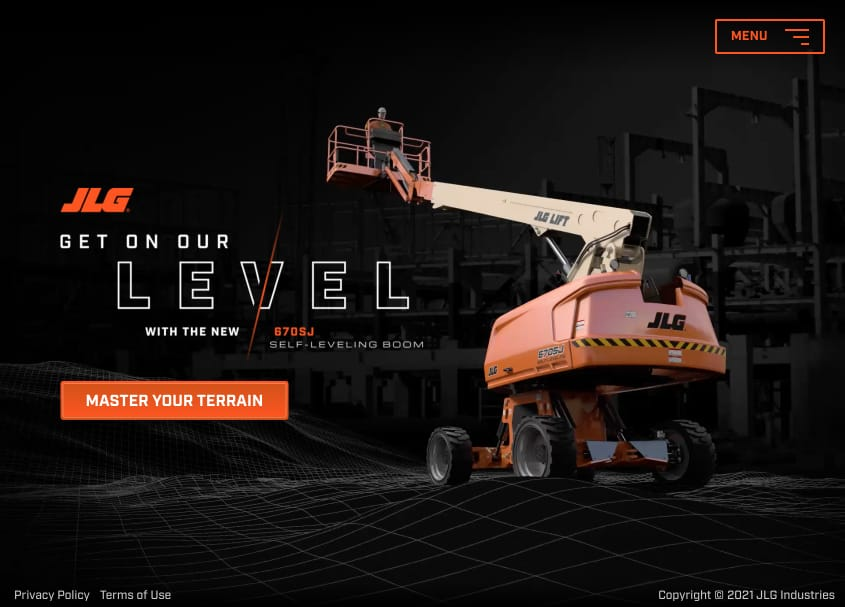
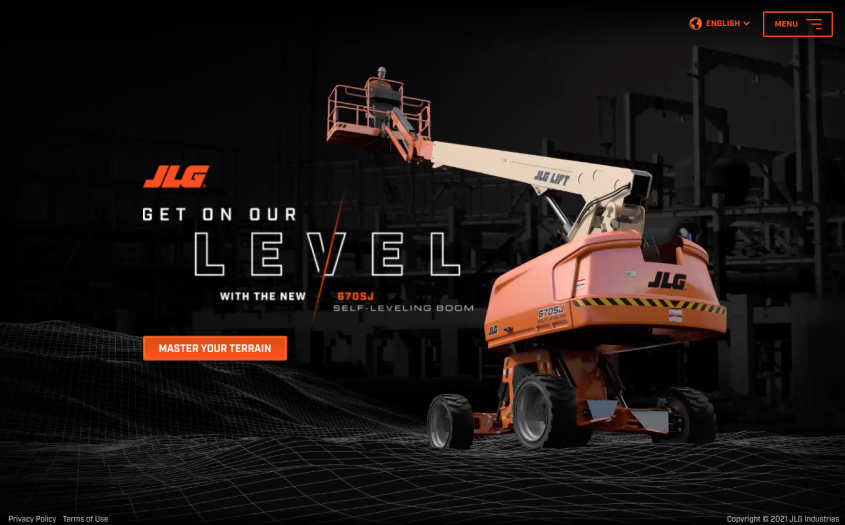
Content population.
Menu population.

Overall site is in a good spot.

diff --git a/components/Works.vue b/components/Works.vue
@@ -150,46 +150,12 @@ export default {
           }
         },
         {
-          id: 'nsf',
-          parity: null,
-          title: 'Nebraska State Fair',
-          task: 'Development',
-          description:
-            'Brief description of project amet nulla vel nunc placerat ultricies eget vel massa. Ut efficitur ex ut libero vestibulum porta. Vestibulum sed purus aliquet, consequat.',
-          illustration: NSFHero,
-          divider: NSFDivider,
-          screenshot: NSFScreenshot,
-          CTATertiary: {
-            component: CTATertiary,
-            link: {
-              text: 'Visit Site',
-              href: 'https://statefair.org',
-              target: '_blank'
-            }
-          },
-          CTASecondary: {
-            component: CTASecondary,
-            link: {
-              text: 'Project Details',
-              href: '/styleguide',
-              target: '_self'
-            }
-          },
-          footer: {
-            component: NSFFooter,
-            modifiers: {
-              triggerEl: '.work__segment--nsf .corn-footer',
-              revealOffset: '0.85'
-            }
-          }
-        },
-        {
           id: 'ezgo',
           parity: null,
           title: 'E-Z-GO',
           task: 'Development',
           description:
-            'Brief description of project amet nulla vel nunc placerat ultricies eget vel massa. Ut efficitur ex ut libero vestibulum porta. Vestibulum sed purus aliquet, consequat.',
+            'E-Z-GO is a leading global manufacturer of golf cars, utility vehicles and personal transportation vehicles. The website features segmented audience content and a vehicle building tool.',
           illustration: EZGOHero,
           divider: EZGODivider,
           screenshot: EZGOScreenshot,
@@ -223,7 +189,7 @@ export default {
           title: 'JLG Self-Leveling Boom',
           task: 'Development',
           description:
-            'Brief description of project amet nulla vel nunc placerat ultricies eget vel massa. Ut efficitur ex ut libero vestibulum porta. Vestibulum sed purus aliquet, consequat.',
+            'This site was created to promote the international launch of the new 670SJ Self-Leveling Boom from JLG. The website was built with nuxt.js and features translation.',
           illustration: SLBHero,
           divider: SLBDivider,
           screenshot: SLBScreenshot,
@@ -317,6 +283,11 @@ export default {
     &--slb {
       color: $color-white;
       background-color: $color-slb-grey;
+
+      &::before,
+      &:after {
+        background-color: $color-slb-orange;
+      }
     }
     &--even {
       &:after {

diff --git a/pages/selflevelingboom/index.vue b/pages/selflevelingboom/index.vue
@@ -14,7 +14,7 @@ export default {
         id: 'slb',
         title: 'JLG Self-Leveling Boom',
         description:
-          '<p>JLG is a global producer of aerial work platforms and telehandlers. The Self-Leveling Boom site was created to promote the new 670SJ Self-Leveling Boom. This project was a collaboration between myself and another developer. I handled setting up the Next.js framework, site structure, and the majority of the site\'s pages while the other developer focused on the <a href="https://www.selflevelingboom.com/masteryourterrain/" target="_blank" rel="nofollow">Master Your Terrain</a> component. After the initial site launched I started on a second phase of development to add Spanish and Portuguese translations.</p>',
+          "<p>JLG is a global producer of aerial work platforms and telehandlers. The Self-Leveling Boom site was created to promote the new 670SJ Self-Leveling Boom. This project was a collaboration between myself and another developer. I handled setting up the Next.js framework, site structure, and the majority of the site's pages while the other developer focused on the Master Your Terrain component. After the initial site launched I started on a second phase of development to add translations.</p>",
         roles: ['Developer'],
         tools: ['Next.js', 'React', 'next-translate'],
         checkmark: {
@@ -37,11 +37,11 @@ export default {
           {
             title: 'Translation',
             description:
-              "Translation support is currently being added to the site. For tooling I used the Next.js internationalized routing system to handle page URLs and detecting the user's preferred language. For translating the site's content I choose next-translate. Using those two tools I was able to produce a robust and flexible translation system.",
-            image: 'mc/mc-detail-two.jpg',
+              "Since the site is being promoted in the UK, North America and South America translation was needed. For tooling I used the Next.js internationalized routing system to handle page URLs and detecting the user's preferred language. For translating the site's content I used next-translate. Using those two tools I was able to produce a robust and flexible translation system.",
+            image: 'slb/slb-detail-two.jpeg',
             link: {
               text: 'View Site',
-              href: 'https://www.selflevelingboom.com/',
+              href: 'https://www.selflevelingboom.com/whereitallbegan/',
               target: '_blank'
             }
           }

diff --git a/components/navigation/Navigation.vue b/components/navigation/Navigation.vue
@@ -12,22 +12,37 @@
           <span class="links__headline">My Work</span>
           <ul>
             <li>
-              <a :tabindex="tabIndex" href="#" class="links__link">
+              <nuxt-link
+                to="/memorialcare"
+                :tabindex="tabIndex"
+                class="links__link"
+                @click.native="toggleNavigation"
+              >
                 <span class="links__text">MemorialCare</span>
                 <div class="links__link__underline"></div>
-              </a>
+              </nuxt-link>
             </li>
             <li>
-              <a :tabindex="tabIndex" href="#" class="links__link">
+              <nuxt-link
+                to="/ezgo"
+                :tabindex="tabIndex"
+                class="links__link"
+                @click.native="toggleNavigation"
+              >
                 <span class="links__text">E-Z-GO</span>
                 <div class="links__link__underline"></div>
-              </a>
+              </nuxt-link>
             </li>
             <li>
-              <a :tabindex="tabIndex" href="#" class="links__link">
+              <nuxt-link
+                to="/selflevelingboom"
+                :tabindex="tabIndex"
+                class="links__link"
+                @click.native="toggleNavigation"
+              >
                 <span class="links__text">JLG</span>
                 <div class="links__link__underline"></div>
-              </a>
+              </nuxt-link>
             </li>
           </ul>
         </li>
@@ -49,7 +64,12 @@
           </ul>
         </li> -->
       </ul>
-      <nuxt-link to="/" class="links__home" :tabindex="tabIndex">
+      <nuxt-link
+        to="/"
+        class="links__home"
+        :tabindex="tabIndex"
+        @click.native="toggleNavigation"
+      >
         <div class="links__circle"></div>
         <home />
       </nuxt-link>
@@ -72,6 +92,12 @@ export default {
   computed: {
     tabIndex() {
       return this.$store.state.menuOpen === true ? 0 : -1
+    }
+  },
+  methods: {
+    toggleNavigation() {
+      console.log('clicked')
+      this.$store.commit('toggleMenuOpen')
     }
   }
 }

diff --git a/pages/memorialcare/index.vue b/pages/memorialcare/index.vue
@@ -30,7 +30,7 @@ export default {
             image: 'mc/mc-detail-one.jpeg',
             link: {
               text: 'View Home Page',
-              href: '/',
+              href: 'https://www.memorialcare.org/',
               target: '_blank'
             }
           },
@@ -41,7 +41,7 @@ export default {
             image: 'mc/mc-detail-two.jpg',
             link: {
               text: 'View Service Line Page',
-              href: '/',
+              href: 'https://www.memorialcare.org/services/womens-care',
               target: '_blank'
             }
           },
@@ -52,7 +52,8 @@ export default {
             image: 'mc/mc-detail-three.jpeg',
             link: {
               text: 'View Hospital Page',
-              href: '/',
+              href:
+                'https://www.memorialcare.org/locations/miller-childrens-womens-hospital-long-beach',
               target: '_blank'
             }
           }

diff --git a/components/work-details/work-details.vue b/components/work-details/work-details.vue
@@ -750,12 +750,12 @@ export default {
       &__image {
         flex: 0 1 auto;
         margin-bottom: $s0;
-        max-width: 480px;
+        max-width: 550px;
 
         @media only screen and (min-width: 850px) {
           flex: 0 0 auto;
           margin-right: $s0;
-          width: 480px;
+          width: 550px;
         }
         img {
           width: 100%;
